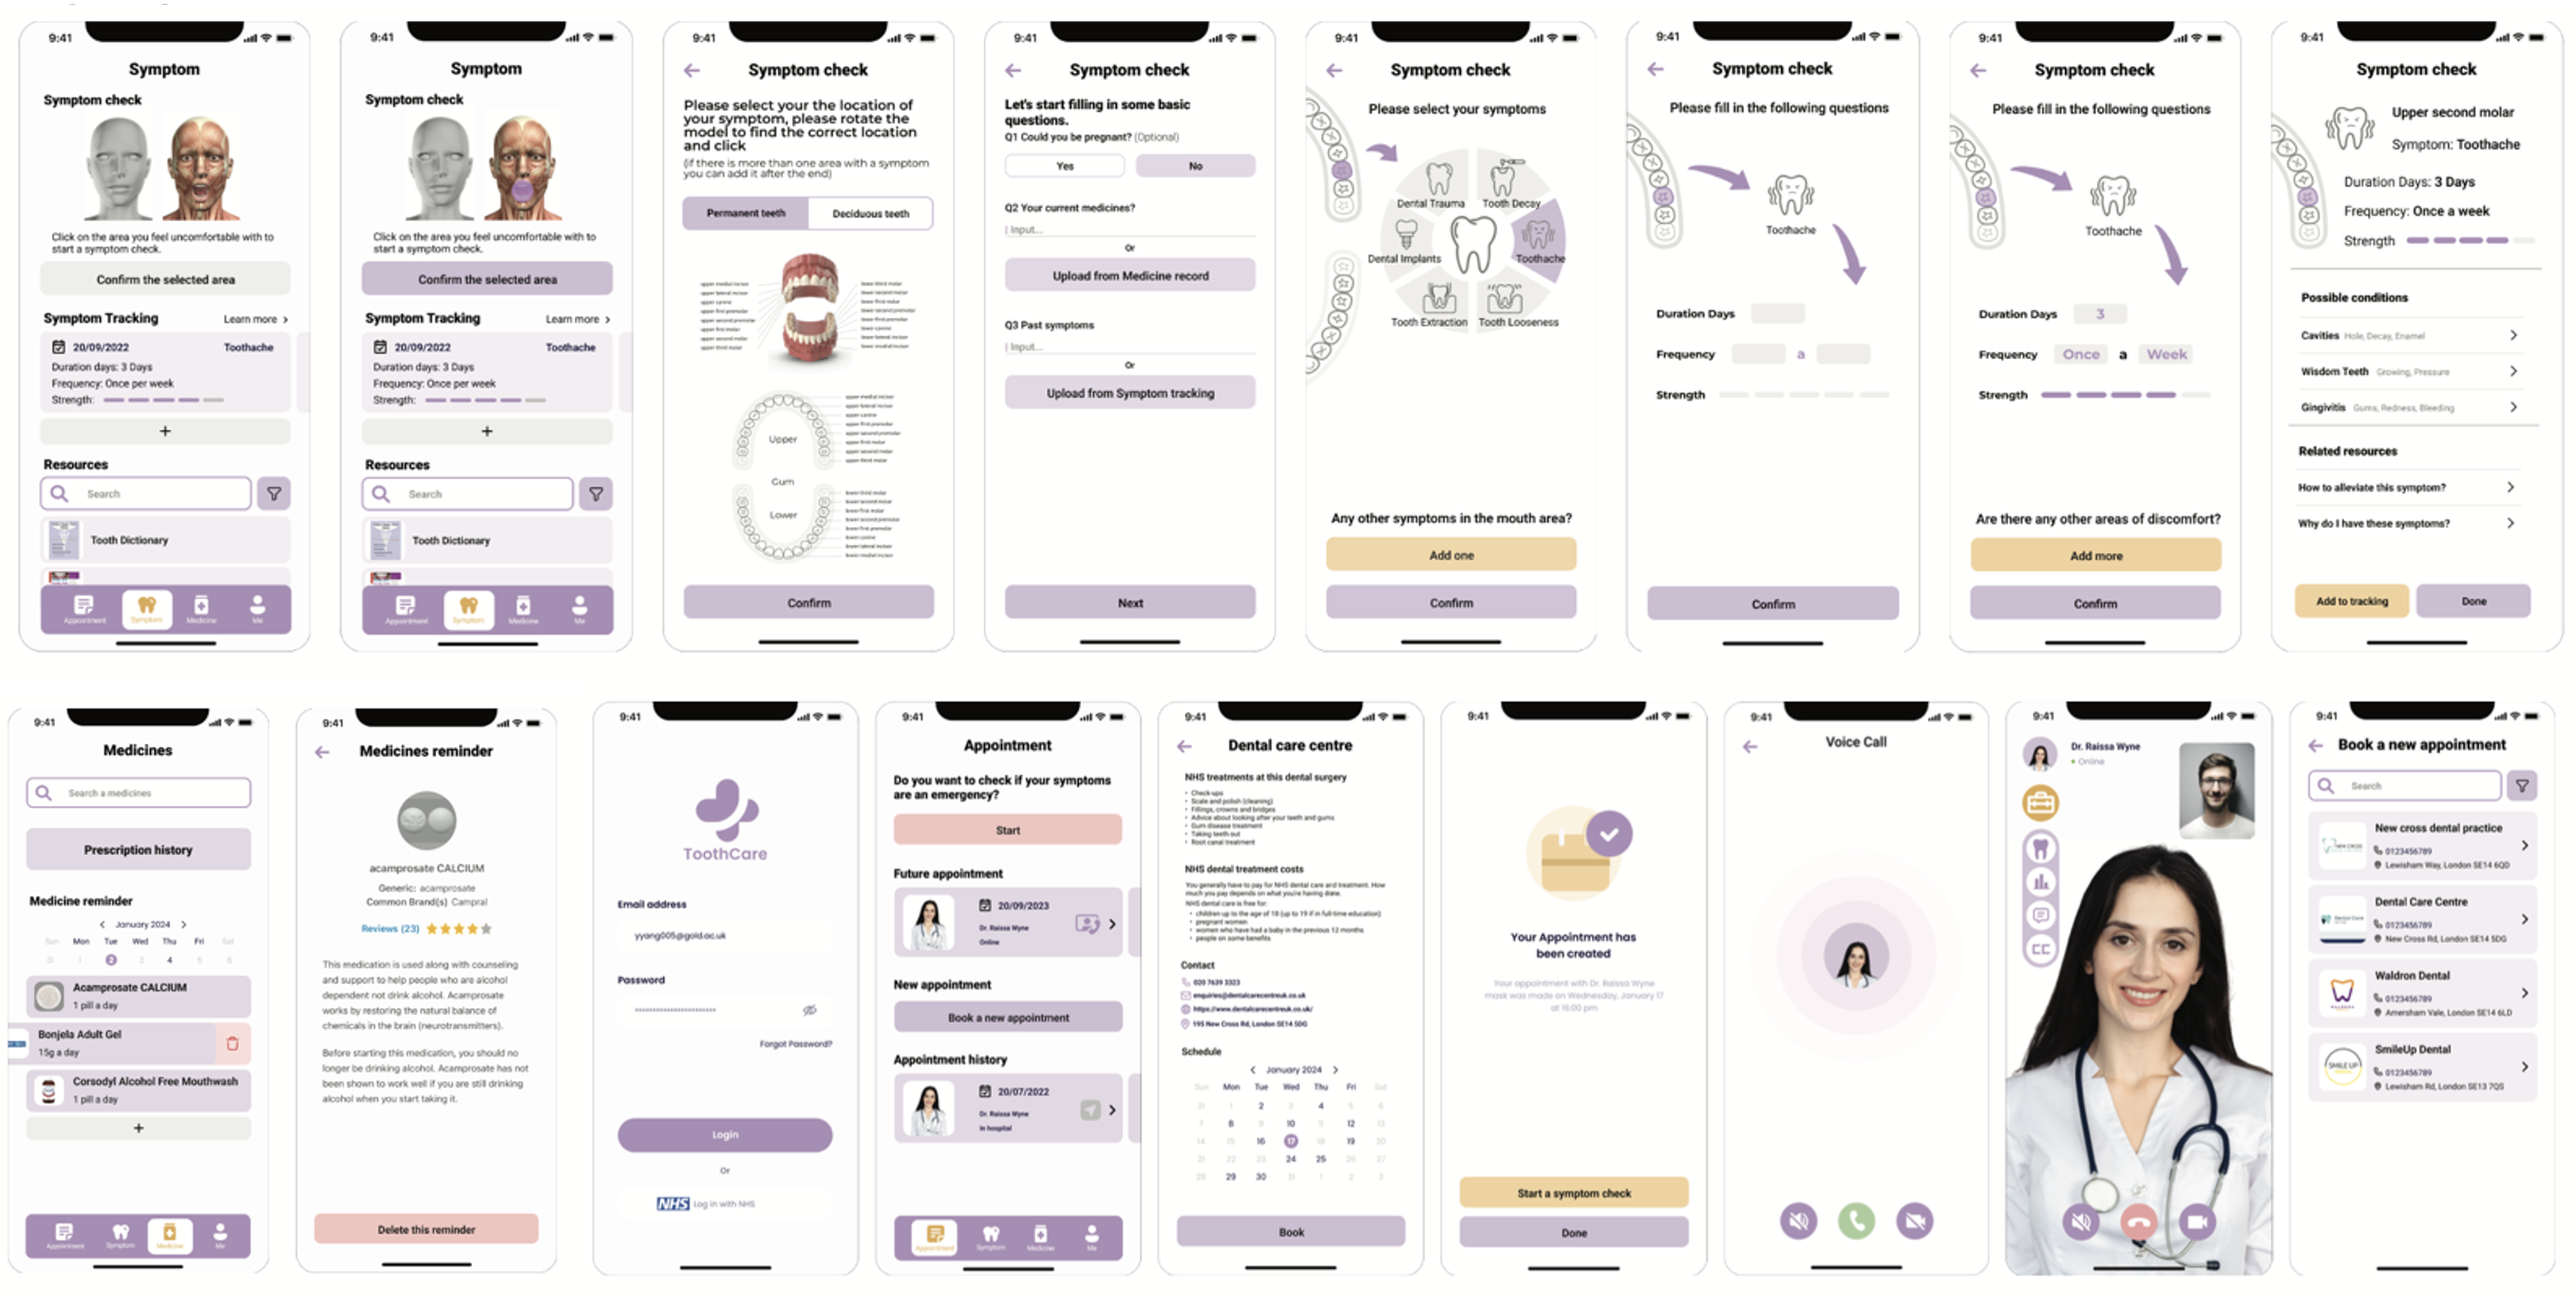
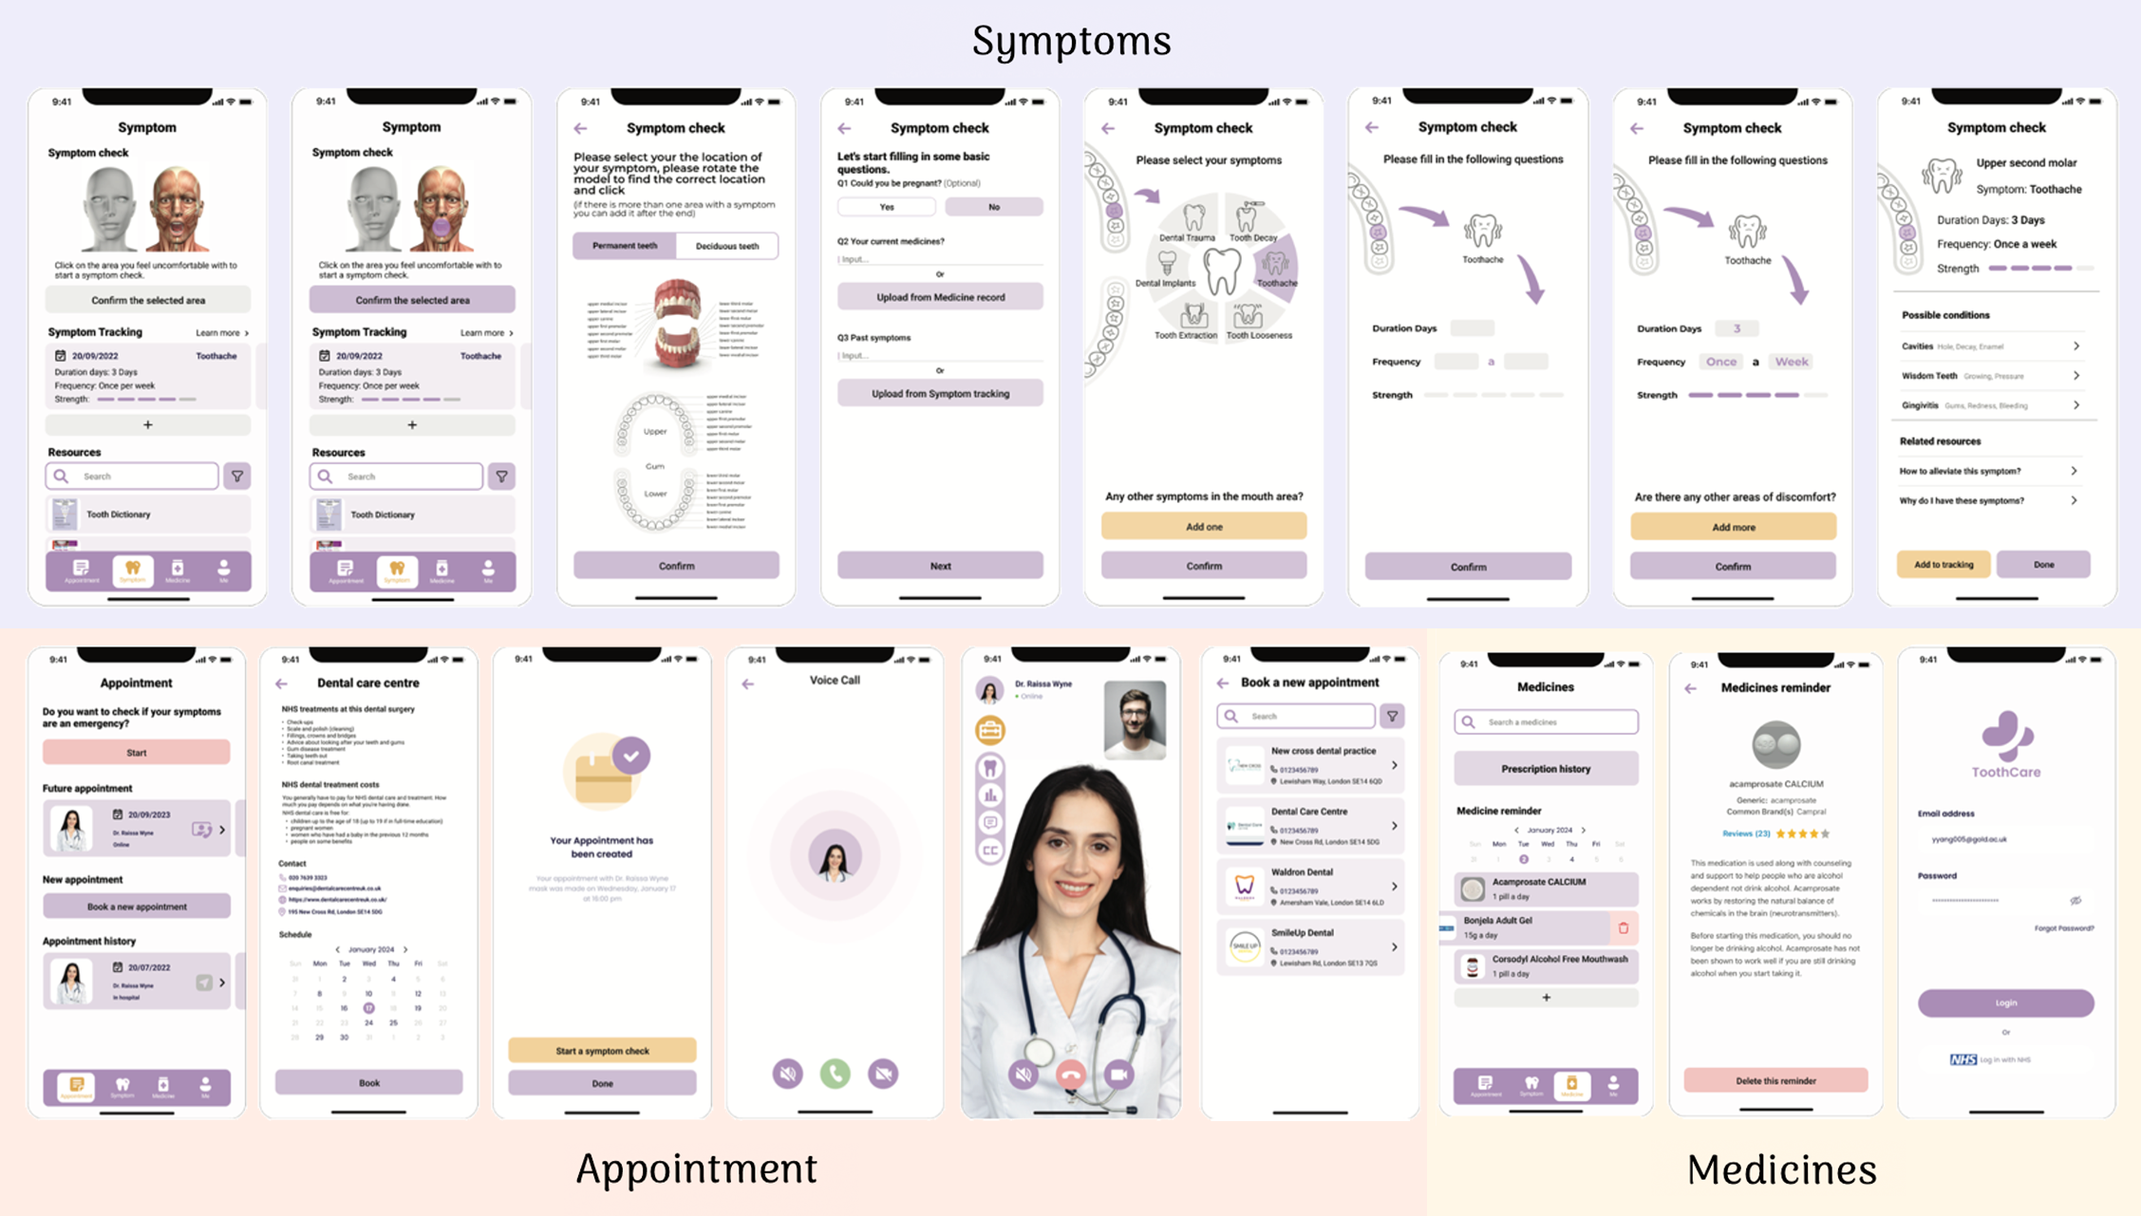
26/09/2024

diff --git a/dentalcare.html b/dentalcare.html
@@ -244,24 +244,31 @@
 		<div id="" class="container">
 			<div>
 				<h3>3 Lo-Fi & Task-based User Testing</h3>
-				<p>Based on the improved information architecture, I designed low-fidelity
-					(Lo-Fi) to further test the enhancements and validate whether the app effectively conveys the
-					patient's illness, thereby boosting their confidence in medical treatment. A task-based user testing
-					approach was employed to assess the effectiveness of the Lo-Fi design. The following picture
-					illustrates the improved Lo-Fi.
-					<br>
-				<h5>Prototyping</h5>Developed low-fidelity wireframes to visualize initial ideas.
-				Conducted task-based usability testing with 10 users on key tasks, such as scheduling appointments
-				and understanding medical instructions.
-				<br>
+				<p>Based on the tree test findings, I developed a low-fidelity (Lo-Fi) prototype to visualize the
+					enhanced structure of the
+					app. This prototype then served as the foundation for task-based usability testing, which was
+					conducted to validate the
+					design's effectiveness in guiding users through key tasks and identifying opportunities for further
+					refinement.
+				</p>
+				<h5>Prototyping</h5>
+				<p>The Lo-Fi prototype was created based on insights from a tree test conducted on the
+					information architecture. This
+					approach ensured that the design effectively addressed the structural improvements needed to guide
+					users
+					through the
+					app's features.
 				</p>
 				<div class="image featured">
 					<img src="images/dentalcare/LoFi.png" alt="Lo-Fi" />
 				</div>
 				<h5> Task-Based Usability Testing</h5>
 				<p>
-					based on prototyping, over 80% of participants
-					successfully completed critical tasks, leading to further iterations based on their feedback.
+					Following the prototyping phase, task-based usability testing was carried out, revealing that over
+					80% of participants
+					successfully completed critical tasks. These tasks included scheduling appointments, navigating
+					medical information, and
+					reporting symptoms. Feedback from this testing led to further iterations of the design.
 					<br>
 
 				<h5>Insight from Task-Based Usability Testing
@@ -305,17 +312,62 @@
 			<div>
 				<h3>4 Hi-Fi & SUS Testing</h3>
 				<p>
-					The high fidelity is designed based on the improved low fidelity and SUS testing is taken to test
-					the usability of the
-					app and finally the improved high fidelity based on the user feedback is as follows.
-					<br>
-					● <strong>SUS Testing:</strong> The app achieved a System Usability Scale score of 82/100,
-					indicating above-average user satisfaction and
-					usability.
+					The high-fidelity (Hi-Fi) prototype was developed based on the improvements made to the low-fidelity
+					design,
+					incorporating insights gained from task-based usability testing. To ensure the app's usability and
+					assess overall user
+					satisfaction, System Usability Scale (SUS) testing was conducted. The final Hi-Fi design integrated
+					feedback from this
+					testing process, resulting in an improved user experience.
 				</p>
 			</div>
+			<h5>Prototyping</h5>
+			<p>The Hi-Fi design retained the structural improvements from the Lo-Fi prototype, with further refinements
+				to visual
+				elements, interface clarity, and user interactions. This version aimed to create a more polished and
+				realistic
+				experience, enhancing elements like typography, iconography, color schemes, and layout to provide a more
+				comprehensive
+				understanding of the final product.
+
+			</p>
 			<div class="image featured">
 				<img src="images/dentalcare/HiFi.png" alt="Hi-Fi" />
+			</div>
+			<h5>SUS Testing</h5>
+			<p>To evaluate the usability of the Hi-Fi design, a System Usability Scale (SUS) test was conducted with six
+				participants
+				who had been treated for dental issues in the UK. All participants were non-native English speakers,
+				selected through
+				recruitment messages shared on social media and within community and school networks. The test was
+				conducted either
+				online or face-to-face, based on participant preference.</p>
+			<h5>Insight from SUS Testing
+			</h5>
+			<div style="margin-left: 1em; ">
+				<details>
+					<summary style="font-weight: normal;">Functionality Improvements</summary>
+					<p>-Translation: Participants suggested adding a translation feature for different languages to
+						cater to non-native
+						speakers.<br />
+						- Appointment Booking: Introduce prompts for emergency self-checks to guide users.<br />
+						- Symptom Reporting: Provide clearer prompts and use a medical 3D model for symptom
+						identification.
+					</p>
+				</details>
+				<details>
+					<summary style="font-weight: normal;">Content Adjustments</summary>
+					<p>- Simplify symptom tracking steps to reduce unnecessary clicks.<br />
+						- Introduce terms that are easy to understand alongside medical terminology.
+					</p>
+				</details>
+				<details>
+					<summary style="font-weight: normal;">Visual & Interaction Design</summary>
+					<p>- Improve screen and font sizes for better readability.<br />
+						- Enhance the visibility of icons, like adjusting the color of yellow icons that weren't
+						noticeable.
+					</p>
+				</details>
 			</div>
 			<hr />
 		</div>
